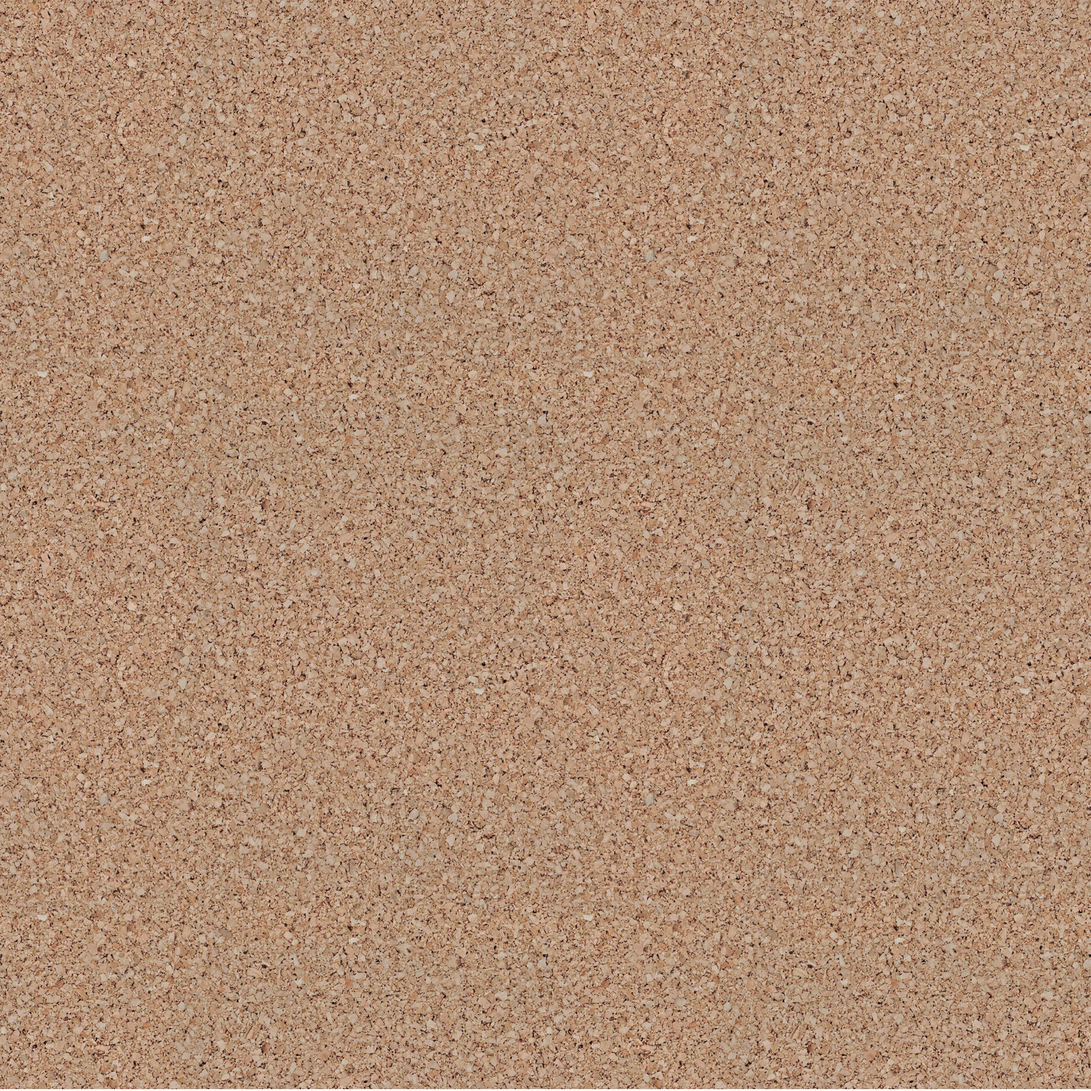
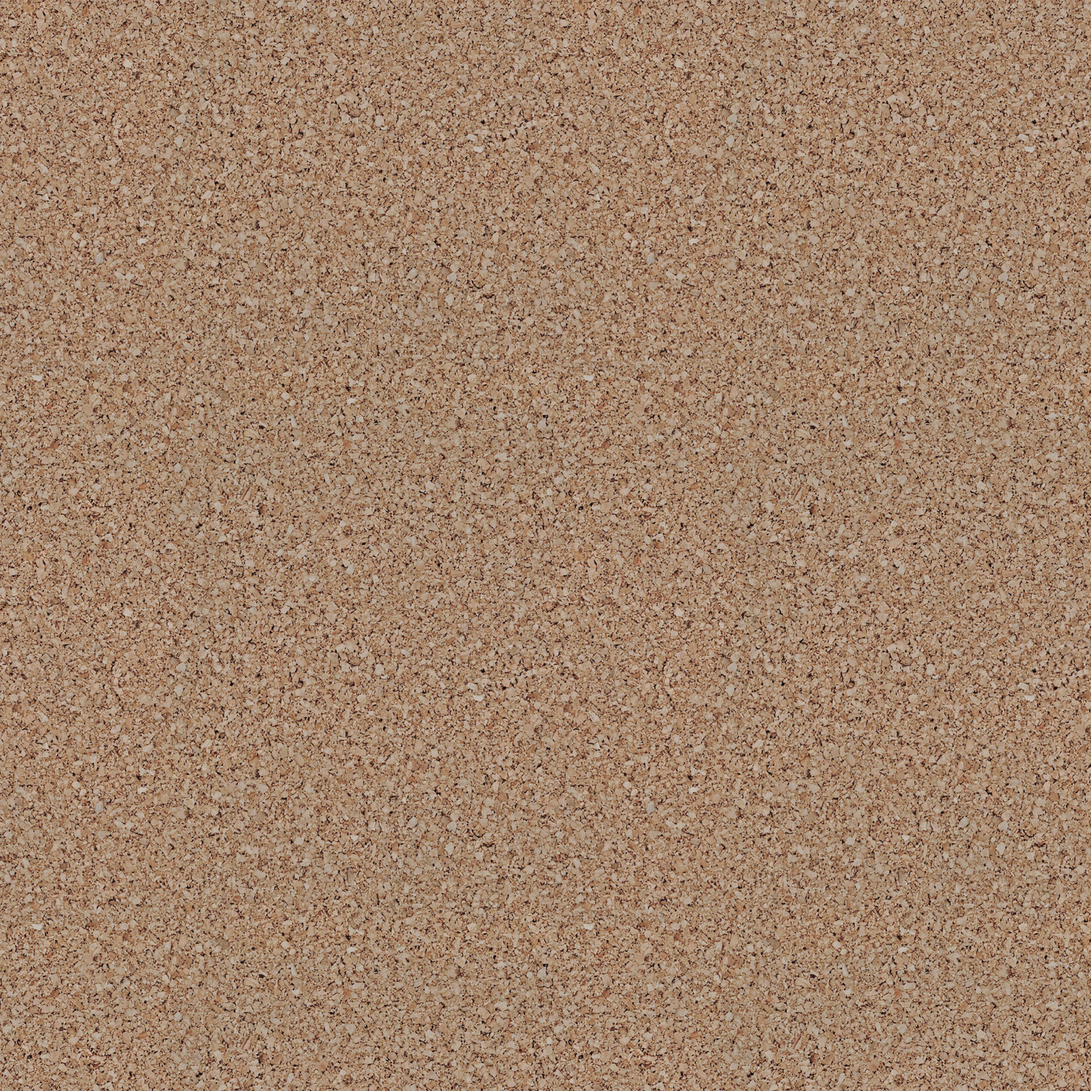
Finish css

diff --git a/src/Results.css b/src/Results.css
@@ -6,8 +6,8 @@
 .top-tape {
   position: relative;
   height: 40px;
-  top: -140px;
-  left: 395px;
+  top: -90px;
+  left: 320px;
   width: 200px;
   background-color: var(--tape-gray);
   border-right: 1px dotted var(--tape-edge-gray);
@@ -16,38 +16,37 @@
   transform: rotate(4deg);
 }
 .postIt {
-  padding: 10px;
   margin: 0 auto;
-  margin-top: 20px;
+  padding: 20px 10px;
+  margin-top: 15px;
   color: #000;
   background: #ffc;
   display: block;
-  height: 10em;
-  width: 10em;
+  min-height: 10em;
+  width: 220px;
   box-shadow: 5px 5px 7px rgba(33, 33, 33, 0.7);
   transform: rotate(4deg);
   position: relative;
-  top: 90px;
+  top: 113px;
   right: -450px;
+  text-align: center;
 }
 .Paper {
   background: white;
   display: block;
-  max-width: 60%;
+  max-width: 80%;
   margin: 0 auto;
-  margin-top: 40px;
-  padding: 120px 40px;
+  padding: 70px 40px;
+  text-align: left;
   box-shadow: 5px 5px 7px rgba(33, 33, 33, 0.7);
 }
-.Results p {
-  text-align: left;
-}
 
-.Results h2 {
+.Results .postIt h2 {
   font-weight: 500;
   font-family: "Gochi Hand", cursive;
-  font-size: 40px;
+  font-size: 45px;
   color: black;
-  padding: 0 auto;
   margin: 0 auto;
+  margin-top: 10px;
+  margin-bottom: 15px;
 }

diff --git a/src/Results.js b/src/Results.js
@@ -1,6 +1,7 @@
 import React from "react";
 import Meaning from "./Meaning";
 import Phonetic from "./Phonetic"
+
 import "./Results.css";
 
 
@@ -11,9 +12,9 @@ return (
        <div className="Results">
            
                 <section className="postIt">
-                            <h2>{props.results.word}</h2>
+                        <h2>{props.results.word}</h2>
            
-                            {props.results.phonetics.map(function (phonetic, index){
+                        {props.results.phonetics.map(function (phonetic, index){
                         return (
                         <div key={index}>
                         <Phonetic phonetic={phonetic}/>
@@ -27,7 +28,9 @@ return (
            {props.results.meanings.map(function(meaning, index){
                return (
                    <section  key={index}>
+                        
                    <Meaning meaning={meaning}/>
+                   
                    </section>
                )
            })}

diff --git a/src/Meaning.js b/src/Meaning.js
@@ -1,6 +1,6 @@
 import React from "react";
 import Synonyms from "./Synonyms"
-
+import "./Meaning.css";
 
 export default function Meaning (props){
     console.log(props.meaning)
@@ -11,10 +11,10 @@ export default function Meaning (props){
         {props.meaning.definitions.map(function (definition, index){
             return (
                 <div key={index}>
-                    <p>
+                    <p className="Definition"> 
                     {definition.definition}
-                    <br/>
-                    "{definition.example}"
+                    </p>
+                    <p className="Example">{definition.example}
                     </p>
                     <Synonyms synonyms={definition.synonyms}/>
                     </div>

diff --git a/src/Phonetic.css b/src/Phonetic.css
@@ -1,0 +1,32 @@
+.Phonetic {
+  margin: 0 auto;
+  padding: 0 auto;
+  margin-top: 25px;
+  margin-bottom: 10px;
+}
+
+.Phonetic p {
+  color: rgba(0, 0, 0, 0.8);
+  font-weight: 700;
+  font-family: "Handlee", cursive;
+  font-size: 15px;
+  text-align: center;
+  margin-top: 15px;
+}
+
+.Phonetic a {
+  text-decoration: none;
+  color: #000;
+  padding: 5px;
+  border: 1px solid #000;
+  border-radius: 50px;
+  margin-top: 25px;
+  transition: all 150ms ease-in-out;
+}
+.Phonetic a:hover {
+  text-decoration: none;
+  color: #fff;
+  border: 1px solid #000;
+  background-color: #000;
+  border-radius: 50px;
+}

diff --git a/src/App.js b/src/App.js
@@ -1,4 +1,5 @@
 import React from 'react';
+import 'bootstrap/dist/css/bootstrap.min.css';
 import './App.css';
 import Footer from "./Footer";
 import Dictionary from "./Dictionary"
@@ -8,15 +9,10 @@ export default function App() {
   return (
     <div className="App">
       <div className="container">
-      
-         <h1>
-          Dictionary
-        </h1>
         
-        <main>
-          <Dictionary/>
-        </main>
-      <Footer/>
+        <Dictionary/>
+         <Footer/>
+         
     </div>
     </div>
   );

diff --git a/src/App.css b/src/App.css
@@ -1,16 +1,19 @@
 @import url("https://fonts.googleapis.com/css2?family=Gochi+Hand&family=Handlee&display=swap");
 
+body {
+  background-image: url("./img/0074.jpg");
+  background-size: 50%;
+}
 .App {
   text-align: center;
-  background-image: url("./img/0074.jpg");
-  background-size: 100%;
-  background-repeat: repeat-y;
   font-family: "Handlee", cursive;
+  padding-top: 50px;
 }
 
 .App h1 {
   font-weight: 500;
   font-family: "Gochi Hand", cursive;
-  font-size: 45px;
+  font-size: 40px;
   color: black;
 }
+

diff --git a/src/Dictionary.css b/src/Dictionary.css
@@ -1,3 +1,23 @@
 .Form {
   margin: 0 auto;
+  margin-top: 60px;
+}
+.Form input {
+  margin-top: 20px;
+  width: 500px;
+  height: 40px;
+  border: none;
+  border-radius: 10px;
+  background-color: rgba(255, 255, 255, 0.2);
+  font-family: "Handlee", cursive;
+  font-size: 18px;
+  font-weight: 600;
+  padding-left: 10px;
+  color: black;
+  box-shadow: 5px 5px 7px rgba(0, 0, 0, 0.7);
+}
+input:focus {
+  outline: none !important;
+  border-color: white;
+  background-color: rgba(255, 255, 255, 0.8);
 }

diff --git a/src/Dictionary.js b/src/Dictionary.js
@@ -25,8 +25,9 @@ export default function Dictionary(){
     return (
         <div className="Dictionary">
             <section className="Form">
+            <h1>What word do you want to look up?</h1>
             <form onSubmit={search} >
-                <input type="search" autoFocus={true} onChange={handleKeywordChange} />
+            <input type="search" autoFocus={true} onChange={handleKeywordChange}  />
             </form>
             </section>
             <Results results={results}/>

diff --git a/src/Phonetic.js b/src/Phonetic.js
@@ -1,4 +1,5 @@
 import React from "react";
+import "./Phonetic.css"
 
 
 
@@ -6,12 +7,12 @@ export default function Phonetic(props){
     console.log(props.phonetic);
    return (
        <div className="Phonetic">
-
+           
         <a href={props.phonetic.audio} target="_blank"  rel="noreferrer">
             Listen
         </a>
         <br/>
-        {props.phonetic.text}
+        <p>{props.phonetic.text}</p> 
        </div>
    );
 }

diff --git a/src/Meaning.css b/src/Meaning.css
@@ -1,0 +1,24 @@
+.Meaning {
+  margin-top: 20px;
+  margin-bottom: 30px;
+}
+
+.Meaning h3 {
+  font-weight: 400;
+  font-family: "Gochi Hand", cursive;
+  font-size: 36px;
+  color: black;
+  text-align: left;
+  margin-top: 20px;
+}
+.Meaning p.Example {
+  font-style: italic;
+  font-weight: 500;
+  font-size: 16px;
+  color: #9a5229;
+}
+.Meaning p.Definition {
+  font-size: 18px;
+  color: #000;
+  margin-bottom: 5px;
+}

diff --git a/src/Footer.css b/src/Footer.css
@@ -1,5 +1,9 @@
+.footer {
+  margin-top: 30px;
+}
+
 .footer p {
-  font-size: 14px;
+  font-size: 15px;
   font-display: center;
-  font-family: "Handlee", cursive;
+  font-family: "Gochi Hand", cursive;
 }

diff --git a/src/Synonyms.css b/src/Synonyms.css
@@ -1,0 +1,12 @@
+.Synonyms {
+  margin: 20px 0 30px 0;
+  padding: 0;
+  text-align: center;
+}
+
+.Synonyms li {
+  display: inline-block;
+  padding-right: 15px;
+  line-height: 1;
+  font-weight: 500;
+}
